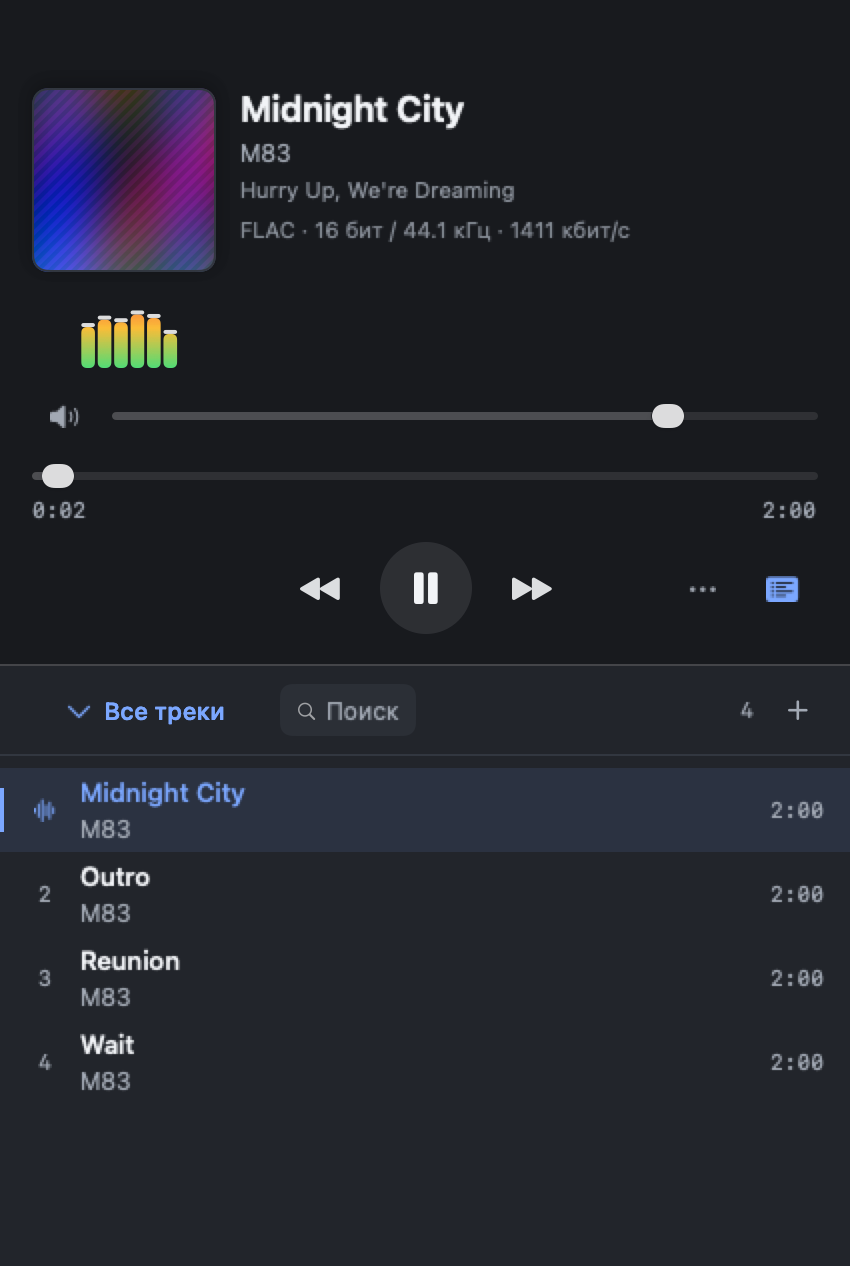
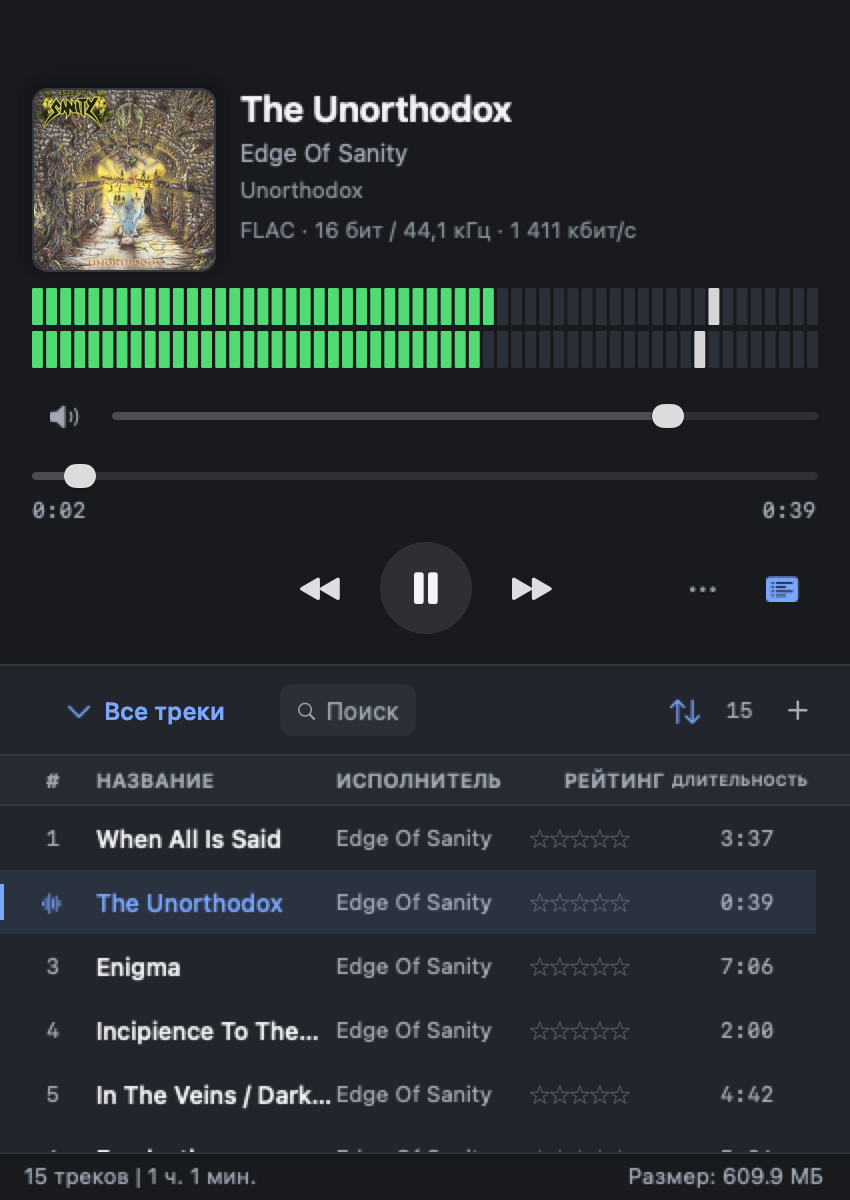
Add a column grid and status bar to the playlist

diff --git a/Sources/CedarPlayer/PlaylistPane.swift b/Sources/CedarPlayer/PlaylistPane.swift
@@ -43,12 +43,12 @@ struct PlaylistPane: View {
 
     private var tracks: [Track] { result.tracks }
 
-    private var showsArtwork: Bool { result.mixedArtwork }
-
     var body: some View {
         VStack(spacing: 0) {
             header
             Divider().overlay(Theme.separator)
+            columnHeader
+            Divider().overlay(Theme.separator.opacity(0.7))
             if tracks.isEmpty {
                 emptyState
             } else if scrolling {
@@ -64,12 +64,16 @@ struct PlaylistPane: View {
                     }
                     .modifier(EnterKeyModifier { playKeyboardSelection() })
                     .onTapGesture { listFocused = true }
+                    .frame(maxHeight: .infinity)
                 }
             } else {
                 listContent
+                    .frame(maxHeight: .infinity, alignment: .top)
             }
+            statusBar
         }
         .frame(width: 425)
+        .frame(maxHeight: .infinity, alignment: .top)
         .background(Theme.panel)
         .onAppear { if isShot { search = "" } }
         .task(id: search) {
@@ -110,7 +114,71 @@ struct PlaylistPane: View {
                     .id(track.id)
             }
         }
-        .padding(.vertical, 6)
+    }
+
+    // MARK: Table chrome
+
+    private let indexWidth: CGFloat = 28
+    private let ratingWidth: CGFloat = 56
+    private let durationWidth: CGFloat = 70
+
+    private var columnHeader: some View {
+        HStack(spacing: 0) {
+            Text("#")
+                .frame(width: indexWidth, alignment: .center)
+            Text(L10n.string("Название"))
+                .frame(minWidth: 120, maxWidth: .infinity, alignment: .leading)
+                .padding(.leading, 8)
+            Text(L10n.string("Исполнитель"))
+                .frame(minWidth: 80, maxWidth: .infinity, alignment: .leading)
+            Text(L10n.string("Рейтинг"))
+                .frame(width: ratingWidth, alignment: .center)
+            Text(L10n.string("Длительность"))
+                .lineLimit(1)
+                .minimumScaleFactor(0.75)
+                .frame(width: durationWidth, alignment: .trailing)
+                .padding(.trailing, 8)
+        }
+        .textCase(.uppercase)
+        .font(.system(size: 10, weight: .bold))
+        .foregroundStyle(Theme.secondaryText)
+        .padding(.horizontal, 12)
+        .frame(height: 24)
+        .background(Theme.subtle.opacity(0.55))
+    }
+
+    private var statusBar: some View {
+        HStack(spacing: 8) {
+            Text("\(tracks.count) треков | \(totalTimeText)")
+            Spacer(minLength: 0)
+            Text("Размер: \(totalSizeText)")
+        }
+        .font(.system(size: 11))
+        .foregroundStyle(Theme.secondaryText)
+        .padding(.horizontal, 12)
+        .frame(height: 24)
+        .background(Theme.background)
+        .overlay(alignment: .top) {
+            Rectangle().fill(Theme.separator.opacity(0.7)).frame(height: 1)
+        }
+    }
+
+    private var totalTimeText: String {
+        let total = Int(tracks.reduce(0) { $0 + max(0, $1.duration) }.rounded())
+        let hours = total / 3600
+        let minutes = (total % 3600) / 60
+        if hours > 0 { return "\(hours) ч. \(minutes) мин." }
+        return "\(minutes) мин."
+    }
+
+    private var totalSizeText: String {
+        let bytes = tracks.reduce(0.0) { total, track in
+            guard track.bitrate > 0, track.duration > 0 else { return total }
+            return total + Double(track.bitrate) * track.duration / 8
+        }
+        if bytes >= 1_000_000_000 { return String(format: "%.1f ГБ", bytes / 1_000_000_000) }
+        if bytes >= 1_000_000 { return String(format: "%.1f МБ", bytes / 1_000_000) }
+        return String(format: "%.0f КБ", bytes / 1_000)
     }
 
     // MARK: Pane header
@@ -260,85 +328,79 @@ struct PlaylistPane: View {
     private func row(_ track: Track, index: Int) -> some View {
         let isCurrent = engine.currentTrack?.id == track.id
         let isSelected = selection.contains(track.id)
-        let isHovered = hoveredTrackID == track.id
-
         let isKeyboard = keyboardTrackID == track.id
+        let isHovered = hoveredTrackID == track.id
         let background: Color = isKeyboard
             ? Theme.accent.opacity(0.22)
             : isSelected
             ? Theme.accent.opacity(0.18)
             : (isCurrent ? Theme.accent.opacity(0.10) : (isHovered ? Theme.hover : .clear))
+        let titleColor = track.isMissing
+            ? Theme.secondaryText
+            : (isCurrent ? Theme.accent : Theme.text)
 
-        return HStack(spacing: Theme.Space.s) {
+        return HStack(spacing: 0) {
             ZStack {
                 if track.isMissing {
                     Image(systemName: "exclamationmark.triangle.fill")
-                        .font(.system(size: 10))
+                        .font(.system(size: 9))
                         .foregroundStyle(.orange)
                         .help("Файл не найден")
                 } else if isCurrent {
                     Image(systemName: engine.isPlaying ? "waveform" : "pause.fill")
-                        .font(.system(size: 11, weight: .medium))
+                        .font(.system(size: 10, weight: .medium))
                         .foregroundStyle(Theme.accent)
                 } else {
                     Text("\(index + 1)")
-                        .font(Theme.Fonts.captionMono)
+                        .font(.system(size: 11, design: .monospaced))
                         .foregroundStyle(Theme.secondaryText)
+                        .monospacedDigit()
                 }
             }
-            .frame(width: 20)
+            .frame(width: indexWidth, alignment: .center)
 
-            if showsArtwork {
-                artwork(track)
-                    .frame(width: 28, height: 28)
-                    .clipShape(RoundedRectangle(cornerRadius: Theme.Radius.small, style: .continuous))
-                    .overlay {
-                        RoundedRectangle(cornerRadius: Theme.Radius.small, style: .continuous)
-                            .strokeBorder(Theme.separator, lineWidth: 0.5)
-                    }
+            Text(track.displayTitle)
+                .font(.system(size: 12, weight: .medium))
+                .foregroundStyle(titleColor)
+                .lineLimit(1)
+                .frame(minWidth: 120, maxWidth: .infinity, alignment: .leading)
+                .padding(.leading, 8)
+
+            Text(track.displayArtist)
+                .font(.system(size: 11))
+                .foregroundStyle(Theme.secondaryText)
+                .lineLimit(1)
+                .frame(minWidth: 80, maxWidth: .infinity, alignment: .leading)
+
+            HStack(spacing: 1) {
+                ForEach(1...5, id: \.self) { value in
+                    Image(systemName: value <= track.rating ? "star.fill" : "star")
+                        .font(.system(size: 9))
+                        .symbolRenderingMode(.monochrome)
+                        .foregroundStyle(value <= track.rating
+                                         ? Theme.accent
+                                         : Theme.secondaryText.opacity(0.35))
+                        .frame(width: 9, height: 9)
+                }
             }
-
-            VStack(alignment: .leading, spacing: 3) {
-                Text(track.displayTitle)
-                    .font(Theme.Fonts.listTitle)
-                    .foregroundStyle(track.isMissing ? Theme.secondaryText : (isCurrent ? Theme.accent : Theme.text))
-                    .lineLimit(1)
-                Text(track.displayArtist)
-                    .font(Theme.Fonts.artist)
-                    .foregroundStyle(Theme.secondaryText)
-                    .lineLimit(1)
-            }
-
-            Spacer(minLength: Theme.Space.s)
-
-            if track.isMissing {
-                Image(systemName: "exclamationmark.triangle.fill")
-                    .font(.system(size: 9))
-                    .foregroundStyle(.orange)
-                    .help("Файл не найден")
-            }
-
-            if track.rating > 0, !showsArtwork {
-                Text(String(repeating: "★", count: track.rating))
-                    .font(.system(size: 9))
-                    .foregroundStyle(Theme.accent.opacity(0.9))
-            }
+            .frame(width: ratingWidth, alignment: .center)
 
             Text(track.timeText)
-                .font(Theme.Fonts.timeMono)
+                .font(.system(size: 11, design: .monospaced))
                 .foregroundStyle(Theme.secondaryText)
                 .monospacedDigit()
-                .frame(width: 44, alignment: .trailing)
+                .frame(width: durationWidth, alignment: .trailing)
+                .padding(.trailing, 8)
         }
-        .padding(.horizontal, Theme.Space.m)
-        .frame(height: 42)
+        .padding(.horizontal, 12)
+        .frame(height: 32)
         .background(background)
         .overlay(alignment: .leading) {
             if isCurrent {
                 Rectangle()
                     .fill(Theme.accent)
                     .frame(width: 2)
-                    .padding(.vertical, 10)
+                    .padding(.vertical, 7)
             }
         }
         .contentShape(Rectangle())
@@ -401,21 +463,6 @@ struct PlaylistPane: View {
             Divider()
             Button("Удалить из библиотеки", role: .destructive) {
                 library.remove([track.id])
-            }
-        }
-    }
-
-    @ViewBuilder
-    private func artwork(_ track: Track) -> some View {
-        if let image = track.artworkID.flatMap({ ArtworkCache.shared.image(for: $0) })
-            ?? track.artwork.flatMap({ NSImage(data: $0) }) {
-            Image(nsImage: image).resizable().aspectRatio(contentMode: .fill)
-        } else {
-            ZStack {
-                Theme.subtle
-                Image(systemName: "music.note")
-                    .font(.system(size: 11))
-                    .foregroundStyle(Theme.secondaryText.opacity(0.8))
             }
         }
     }
